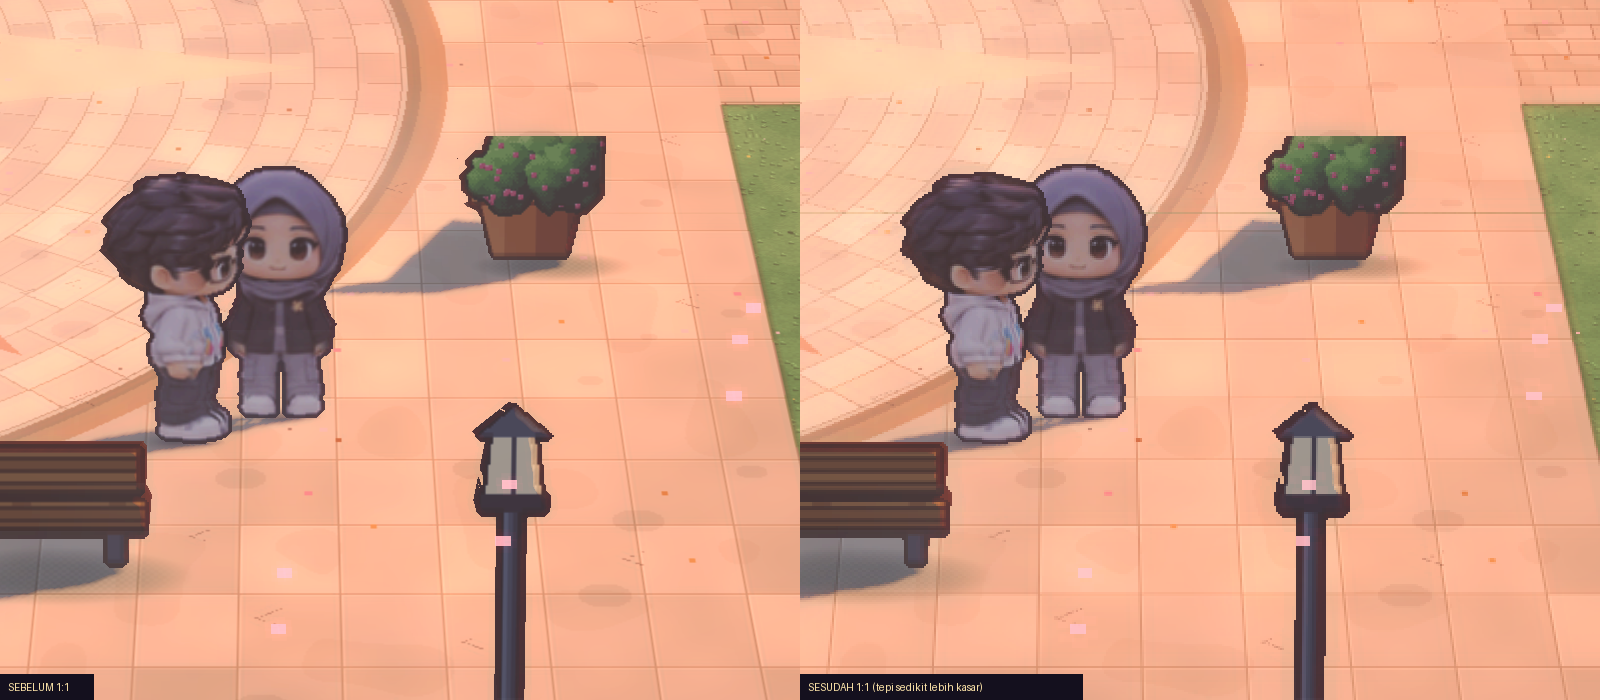
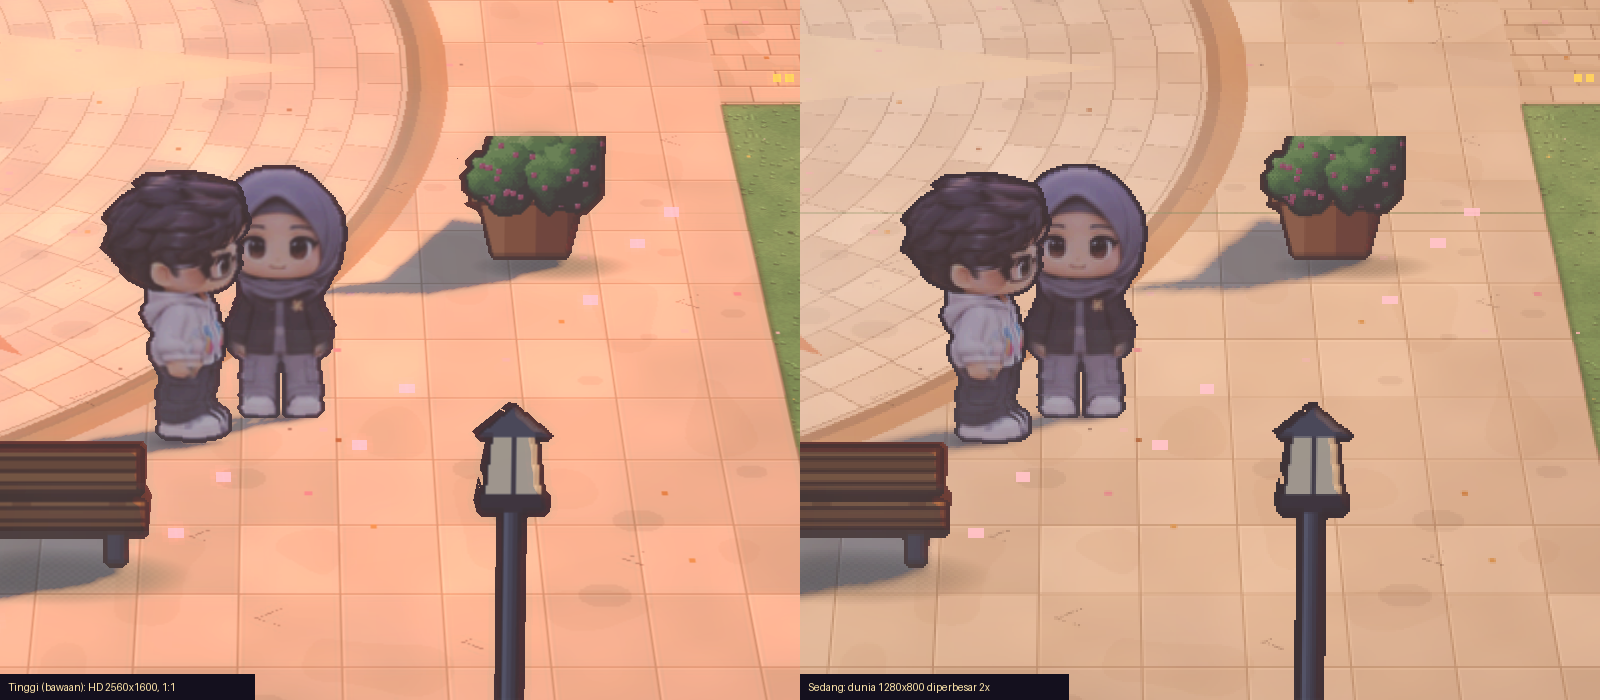
U1a: Tinggi tetap HD; efek layar lewat mipmap; panggung hanya di Sedang/Rendah
Masukan pemilik: dunia 1280x800 diperbesar 2x terasa burik di Redmi Pad 2.
- render_stage.gd: SubViewport dengan size_2d_override; Tinggi/Ultra = resolusi
  layar penuh 1:1 (identik), Sedang/Rendah = 1280x800 nearest 2x; ikut setelan
- post25d.gdshader: blur tilt-shift + bloom dari mipmap layar (2 sampel, bukan 12):
  Plaza 2560x1600 Tinggi 659 -> 550 ms render GPU (-17%)
- rincian biaya per bagian (QA_Q), docs/PERFORMANCE.md
- tes 106/106; regresi dua route identik

Claude-Session: https://claude.ai/code/session_01JPHCmFAgos43C882L1wxNa

diff --git a/docs/PERFORMANCE.md b/docs/PERFORMANCE.md
@@ -1,67 +1,71 @@
 # Performa (U1)
 
 ## Masalah yang dilaporkan
-Di Redmi Pad 2, game tidak mencapai 60 FPS. Tablet ini memakai GPU Mali-G57 MC2 dengan layar 2560×1600.
+Di Redmi Pad 2 (Mali-G57 MC2, 2560×1600), game tidak mencapai 60 FPS.
 
 ## Penyebab
 - Game dirancang untuk 1280×720 dan memakai stretch `canvas_items`.
-- Dengan stretch itu, dunia 3D, overlay 2D, dan efek layar (warna, vinyet, bloom) digambar untuk setiap
-  piksel fisik layar.
-- Di layar 2560×1600, jumlahnya 4,1 juta piksel per frame. Itu 4,4× lebih banyak daripada desain,
-  padahal gambarnya sama. GPU kelas MC2 biasanya kehabisan tenaga di pengisian piksel seperti ini,
-  bukan di jumlah objek.
+- Dengan stretch itu, dunia 3D, overlay 2D, dan efek layar digambar untuk setiap piksel fisik.
+- Di layar 2560×1600, jumlahnya 4,1 juta piksel per frame. Itu 4,4× lebih banyak daripada desain.
 
-## Perbaikan: panggung resolusi (`src/game/render_stage.gd`)
-- **Kapan aktif.** Panggung aktif kalau layar setidaknya 2× ukuran desain di kedua sisi
-  (`RenderStage.wanted`).
-- **Apa yang terjadi.**
-  - World, Atmosphere, dan WorldView3D digambar di dalam `SubViewport` berukuran logis
-    (1280×800 di Redmi Pad 2).
-  - Hasilnya diperbesar dengan filter *nearest*, jadi pixel art tetap tajam.
-  - UI (HUD, dialog, menu, gelembung obrolan) tetap digambar di layar asli, jadi teks tetap tajam.
-- **Koordinat.** Satuan logis di dalam panggung sama dengan satuan UI. Karena itu gelembung obrolan
-  NPC yang memetakan posisi dunia ke UI tetap pas. Ini dicek dengan `SHOT_BUBBLE=1` di 2560×1600:
-  posisi gelembungnya identik dengan dan tanpa panggung.
-- **Ponsel 1080p tidak memakai panggung.**
-  - Skalanya hanya 1,5×. Pembesaran *nearest* yang bukan bilangan bulat akan membuat piksel tidak rata.
-  - Ponsel ini tetap digambar native seperti sebelumnya.
-  - Kalau angka dari HP menunjukkan ponsel juga lambat, ini keputusan berikutnya.
-- **Kekurangan.** Di tablet, tepi karakter dan objek sedikit lebih kasar, karena satu piksel dunia
-  menjadi 2×2 piksel layar. Teks dan UI tidak terpengaruh.
+## Rincian biaya di 2560×1600, preset Tinggi
+Plaza pukul 07.00, saat kabut pagi tebal. Diukur dari timer render GPU di renderer software server.
+Angka absolutnya tidak mewakili Mali; yang bermakna hanya perbandingannya.
 
-## Penghitung FPS
-Aktifkan lewat **Pengaturan → Penghitung FPS → Nyala**. Di bawah HUD akan muncul tulisan seperti
-`58 FPS · 1280x800`. Ukuran yang ditampilkan adalah ukuran dunia yang sedang digambar. Kalau angkanya
-2560x1600, berarti panggung tidak aktif.
+| Bagian yang dimatikan (sendiri-sendiri) | Waktu render GPU | Hemat |
+|---|---|---|
+| — (semua nyala) | 659 ms | — |
+| sampel blur/bloom di efek layar | 447 ms | 32% |
+| seluruh efek layar | 378 ms | 43% |
+| kabut | 585 ms | 11% |
+| glow 3D | 588 ms | 11% |
+| bayangan | 604 ms | 8% |
+| lampu, pantulan air | ±659 ms | ±0% |
 
-## Pengukuran di server
-- Lingkungan ini memakai renderer software (llvmpipe), dan FPS-nya terkunci ±7,5. Angka FPS dari sini
-  tidak bermakna.
-- Yang bisa diukur adalah **waktu render** per frame dari timer GPU dan CPU
-  (`RenderingServer.viewport_get_measured_render_time_*`). Hasilnya dicatat oleh `tests/bench_map.tscn`
-  pada 2560×1600.
+Kesimpulannya, **efek layar adalah bagian terberat.** Efek ini membaca 12 sampel tambahan untuk
+setiap piksel (blur tilt-shift di atas dan bawah layar, ditambah bloom).
 
-| Map | Waktu render GPU tanpa → dengan panggung | CPU render | Memori tekstur |
-|---|---|---|---|
-| Plaza | 649 → 223 ms (−66%) | 480 → 194 ms | 189 → 156 MB |
-| Taman Kota | 652 → 224 ms (−66%) | 487 → 194 ms | 183 → 150 MB |
-| Padang Lentera | 724 → 242 ms (−67%) | 506 → 205 ms | 167 → 134 MB |
-| Hutan Bisik | 694 → 250 ms (−64%) | 488 → 213 ms | 234 → 201 MB |
-| Kafe Senja | 496 → 168 ms (−66%) | 262 → 133 ms | 90 → 81 MB |
+## Perubahan
 
-- Angka absolutnya berasal dari CPU server, bukan dari Mali. **Yang berarti hanya perbandingannya.**
-- Waktu render turun sekitar 3×, bukan 4×. Sisanya adalah biaya tetap per frame (bayangan dan jumlah
-  draw call), yang tidak ikut turun bersama resolusi.
+### 1. Efek layar lebih murah, gambar tetap HD (semua preset)
+- `src/fx/post25d.gdshader` kini membaca blur dan bloom dari **mipmap layar**, satu sampel untuk
+  masing-masing, menggantikan 12 sampel.
+- Ketajaman tidak berubah. Blur tilt-shift dan bloom lampu terlihat hampir sama
+  (lihat `docs/screens/u1/efek_layar.png`). Halo lampu sedikit lebih halus.
+- Hasil di Plaza, Tinggi, 2560×1600: **659 → 550 ms (−17%)**. Diukur dua kali per versi:
+  552/549 dan 665/655.
+
+### 2. Panggung resolusi, hanya untuk Sedang/Rendah (`src/game/render_stage.gd`)
+- **Kapan dipakai.** Di layar yang setidaknya 2× ukuran desain, dunia digambar di sebuah `SubViewport`.
+  Koordinat 2D di dalamnya selalu sama dengan ukuran logis UI (`size_2d_override`).
+- **Tinggi/Ultra (bawaan):** dunia digambar di resolusi layar penuh dan ditampilkan 1:1. Hasilnya
+  identik dengan tanpa panggung: hanya 0,19% piksel yang berbeda lebih dari 8 level.
+- **Sedang/Rendah:** dunia digambar 1280×800 lalu diperbesar 2× dengan filter nearest. UI tetap tajam.
+  - Plaza: Sedang 167 ms, Rendah 109 ms.
+  - Dibandingkan Tinggi lama (659 ms), penghematannya −75% dan −84%.
+  - Harganya, tepi dunia lebih kasar (lihat `docs/screens/u1/detail_1banding1.png`).
+- **Mengikuti pengaturan.** Mode berganti langsung saat kualitas grafis diubah, tanpa memuat ulang.
+- **Ponsel tidak terpengaruh.** Ponsel 1080p (skala 1,5×) tidak memakai panggung sama sekali.
+- **Biaya.** Di Tinggi, satu render target tambahan memakan memori tekstur ±27 MB (189 → 216 MB).
+  Biaya GPU-nya tidak terukur (547 ms dengan panggung, 550 ms tanpa).
+
+### 3. Penghitung FPS
+Aktifkan lewat **Pengaturan → Penghitung FPS**. Di bawah HUD akan muncul tulisan seperti
+`58 FPS · 2560x1600`. Angka di belakangnya adalah ukuran dunia yang sedang digambar.
+
+## Yang dicoba lalu dibatalkan
+- **Panggung 1280×800 sebagai bawaan.** Pemilik game menilai gambarnya burik di Redmi Pad 2 dan ingin
+  tetap HD.
+- **Noise kabut dari tekstur.** Tujuannya mengganti hash dengan pembacaan tekstur. Di renderer software
+  hasilnya tidak lebih cepat, dan pola kabutnya berubah. Tanpa bukti di GPU sungguhan, perubahan ini
+  tidak dikirim.
 
 ## Cara mengulang
 ```
-STAGE=0|1 xvfb-run -s "-screen 0 2560x1600x24" godot --rendering-driver opengl3 --resolution 2560x1600 \
-    --path . tests/bench_map.tscn -- --bench plaza
+SHOT_QUALITY=high|medium|low STAGE=0|1 QA_Q='{"taps":false}' \
+  xvfb-run -s "-screen 0 2560x1600x24" godot --rendering-driver opengl3 --resolution 2560x1600 \
+  --path . tests/bench_map.tscn -- --bench plaza
 ```
-Variabel `STAGE` memaksa panggung nyala (1) atau mati (0). Variabel ini hanya untuk QA.
-
-## Gambar
-- `docs/screens/u1/panggung_2560x1600.png`: tangkapan 2560×1600 sebelum dan sesudah. Gelembung obrolan
-  dan HUD berada di posisi yang sama. Penghitung FPS terlihat di bawah HUD.
-- `docs/screens/u1/detail_1banding1.png`: potongan 1:1. Di sini terlihat yang dikorbankan, yaitu tepi
-  yang sedikit lebih kasar.
+- `STAGE` memaksa panggung nyala (1) atau mati (0).
+- `QA_Q` menimpa satu nilai preset: `taps`, `post`, `shadows`, `glow`, `lamps`, `reflect`, atau `mist`.
+- Keduanya hanya untuk QA.

diff --git a/QA_REPORT_V8.md b/QA_REPORT_V8.md
@@ -1,16 +1,16 @@
 # QA REPORT — V8.0
 
-## Upgrade 1, bagian U1a — panggung resolusi — ringkasan
+## Upgrade 1, bagian U1a — efek layar, panggung resolusi — ringkasan
 | Pemeriksaan | Hasil |
 |---|---|
-| Tes logika | **104 / 104 lulus**. Ada 2 tes baru: kapan panggung aktif (2560×1600 dan 2732×2048 ya; 2400×1080, 1920×1200, dan 1280×720 tidak); setelan penghitung FPS |
-| Cerita sampai tamat | Sofia **dengan panggung dipaksa nyala** (`STAGE=1`) dan Arland tanpa panggung: langkah, area, dan frame identik dengan main. 0 script error |
-| Waktu render di 2560×1600 (llvmpipe) | GPU −64% sampai −67% di 5 map; memori tekstur −9 sampai −33 MB. Tabel di `docs/PERFORMANCE.md` |
-| Posisi UI | gelembung obrolan NPC, HUD, tombol, dan prompt identik dengan dan tanpa panggung (`SHOT_BUBBLE=1`) |
-| Interior | kamera ortografis di dalam ruangan tetap benar (Kafe) |
-| Sebelum/sesudah | `docs/screens/u1/panggung_2560x1600.png`, `detail_1banding1.png` |
+| Tes logika | **106 / 106 lulus**. Ada 4 tes baru: kapan panggung dipakai; Tinggi tetap HD dan 1280×800 hanya di Sedang/Rendah; ganti kualitas langsung mengubah ukuran gambar (catatan: di mode headless ukuran jendela dan ukuran logis bisa sama, jadi tes ini lemah; kedua mode dicek dengan tangkapan 2560×1600); setelan penghitung FPS |
+| Cerita sampai tamat | Sofia dengan panggung dipaksa nyala, Arland tanpa panggung: langkah, area, dan frame identik. 0 script error |
+| Waktu render di 2560×1600 (Plaza, Tinggi) | efek layar baru 659 → 550 ms (−17%, dua kali ukur). Sedang 167 ms, Rendah 109 ms |
+| Ketajaman Tinggi | dengan panggung (mode HD) vs tanpa panggung: 0,19% piksel berbeda >8 level |
+| Posisi UI | gelembung obrolan, HUD, dan prompt identik di kedua mode |
+| Sebelum/sesudah | `docs/screens/u1/efek_layar.png`, `detail_1banding1.png` |
 | FPS di HP | **belum diukur**. APK ini membawa penghitung FPS untuk itu |
-| Kekurangan | di tablet, tepi dunia sedikit lebih kasar (satu piksel dunia = 2×2 piksel layar) |
+| Dibatalkan | panggung sebagai bawaan (pemilik: burik); noise kabut dari tekstur (tidak terbukti lebih cepat) |
 
 ## Upgrade 3, bagian U2e — suasana 7 map mimpi — ringkasan
 | Pemeriksaan | Hasil |

diff --git a/CHANGELOG_V8.md b/CHANGELOG_V8.md
@@ -1,12 +1,12 @@
 # CHANGELOG — V8.0 "The Definitive Overhaul"
 
-## Upgrade 1, bagian U1a — panggung resolusi dan penghitung FPS
+## Upgrade 1, bagian U1a — efek layar lebih ringan, panggung resolusi, penghitung FPS
 Detail: `docs/PERFORMANCE.md`.
-- **Tablet 2.5K** (misalnya Redmi Pad 2, 2560×1600): dunia game kini digambar pada 1280×800 lalu
-  diperbesar 2×. Beban GPU untuk dunia turun ±2/3. Pixel art tetap tajam, dan UI serta teks tetap
-  digambar pada resolusi layar.
-- Ponsel 1080p tidak berubah.
-- **Pengaturan → Penghitung FPS:** menampilkan FPS dan ukuran gambar dunia di bawah HUD (bawaan: mati).
+- **Efek layar** (blur tilt-shift dan bloom) kini membaca mipmap layar, bukan 12 sampel per piksel.
+  Gambarnya tetap HD dan hampir sama. Di tablet 2.5K, waktu render turun ±17% pada preset Tinggi.
+- **Tablet 2.5K, preset Sedang/Rendah:** dunia digambar 1280×800 lalu diperbesar 2×. Jauh lebih
+  ringan, tapi tepinya lebih kasar. Preset **Tinggi (bawaan) tetap HD penuh.**
+- **Pengaturan → Penghitung FPS:** menampilkan FPS dan ukuran gambar dunia (bawaan: mati).
 
 ## Upgrade 3, bagian U2e — suasana 3D untuk 7 map mimpi yang tertinggal
 Detail: `docs/WORLD3D.md` (U2e). Gambar: `docs/screens/u2e/`.
